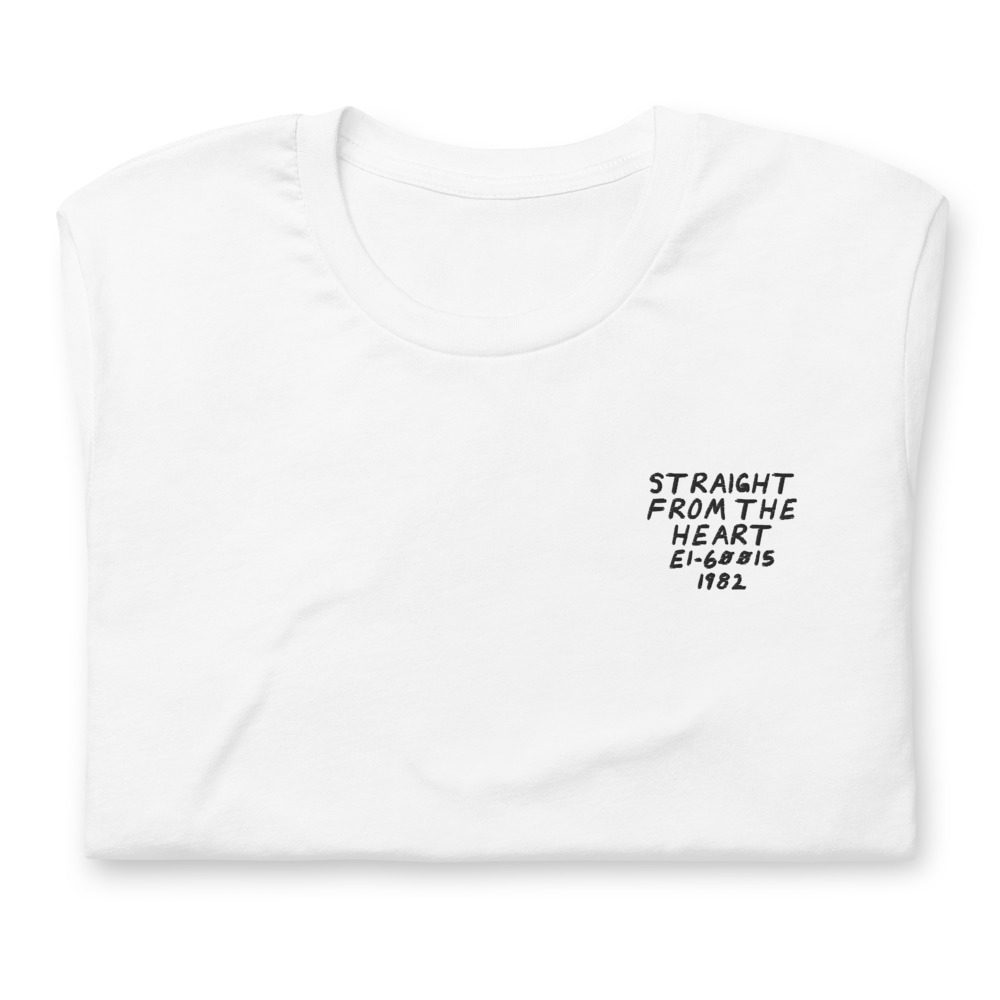
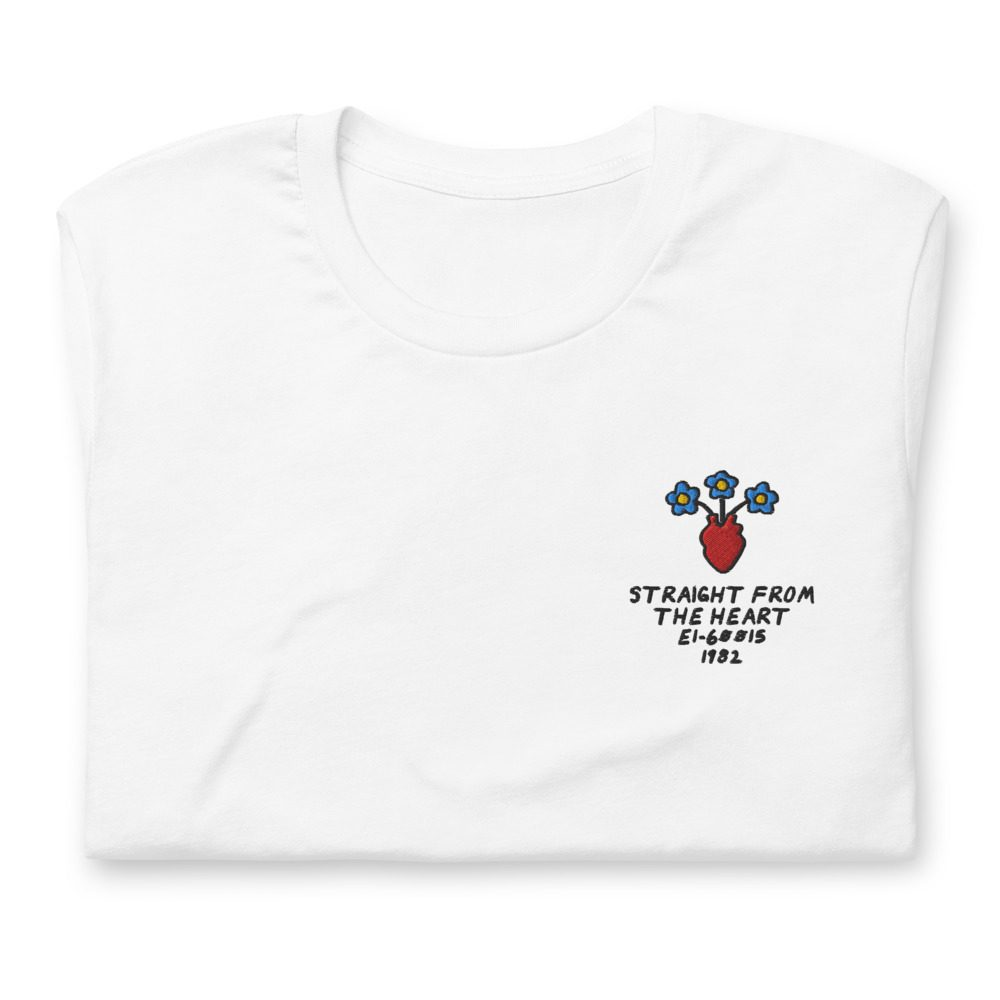
Deploy build from source 61bb847

Changed region(s): [[0.62, 0.465, 0.806, 0.682]]

diff --git a/about.html b/about.html
@@ -50,7 +50,7 @@
 <p>I’ve been chasing both ever since: that warm 5 o’clock hour, and records that hold together from side A to side B.</p>
 <h2>Some of what I play</h2>
 <p>Random picks, in no order. Ask me tomorrow and it’d be a different list.</p>
-<p class="picks">Isabelle Antena, Mina, Milton Wright, Modjo, Brick, Supreme Jubilees, Feist, William DeVaughn, Amerie, Miki Matsubara, The Esquires, Lynda Dawn, The Main Ingredient, Deee-Lite, Herb Alpert, Kalima, The Chi-Lites, Sade, Madonna, Khruangbin, Antena, Prince, Marvin Gaye, The S.O.S Band, Dorothy Ashby, Helene Smith, Stan Getz, Cotton Jones.<br>
+<p class="picks">Björk, Unity &amp; The Downbeats, berlioz &amp; Ted Jasper, The Love Unlimited Orchestra, Missy Elliott, Cotton Jones, Mina, Leo’s Sunshipp, Syl Johnson, Depeche Mode, Minnie Riperton, NEL OLIVER, Aretha Franklin, Dee Edwards, Mariah Carey, Anita Ward, Bobbi Humphrey, Azymuth, Volta Jazz, Donna Summer, Robert Palmer, Mon Laferte, George McCrae, Willie Wright, LCD Soundsystem, Labi Siffre, Papa Bear &amp; His Cubs, El Guincho.<br>
 <span class="m">Shuffled <time datetime="2026-11-08">2026-11-08</time>.</span></p>
 <p>A few labels I dig through: Athens of the North, Numero Group, Salsoul, Awesome Tapes from Africa, Jazz Dispensary.</p>
 <h2>The shelf</h2>
